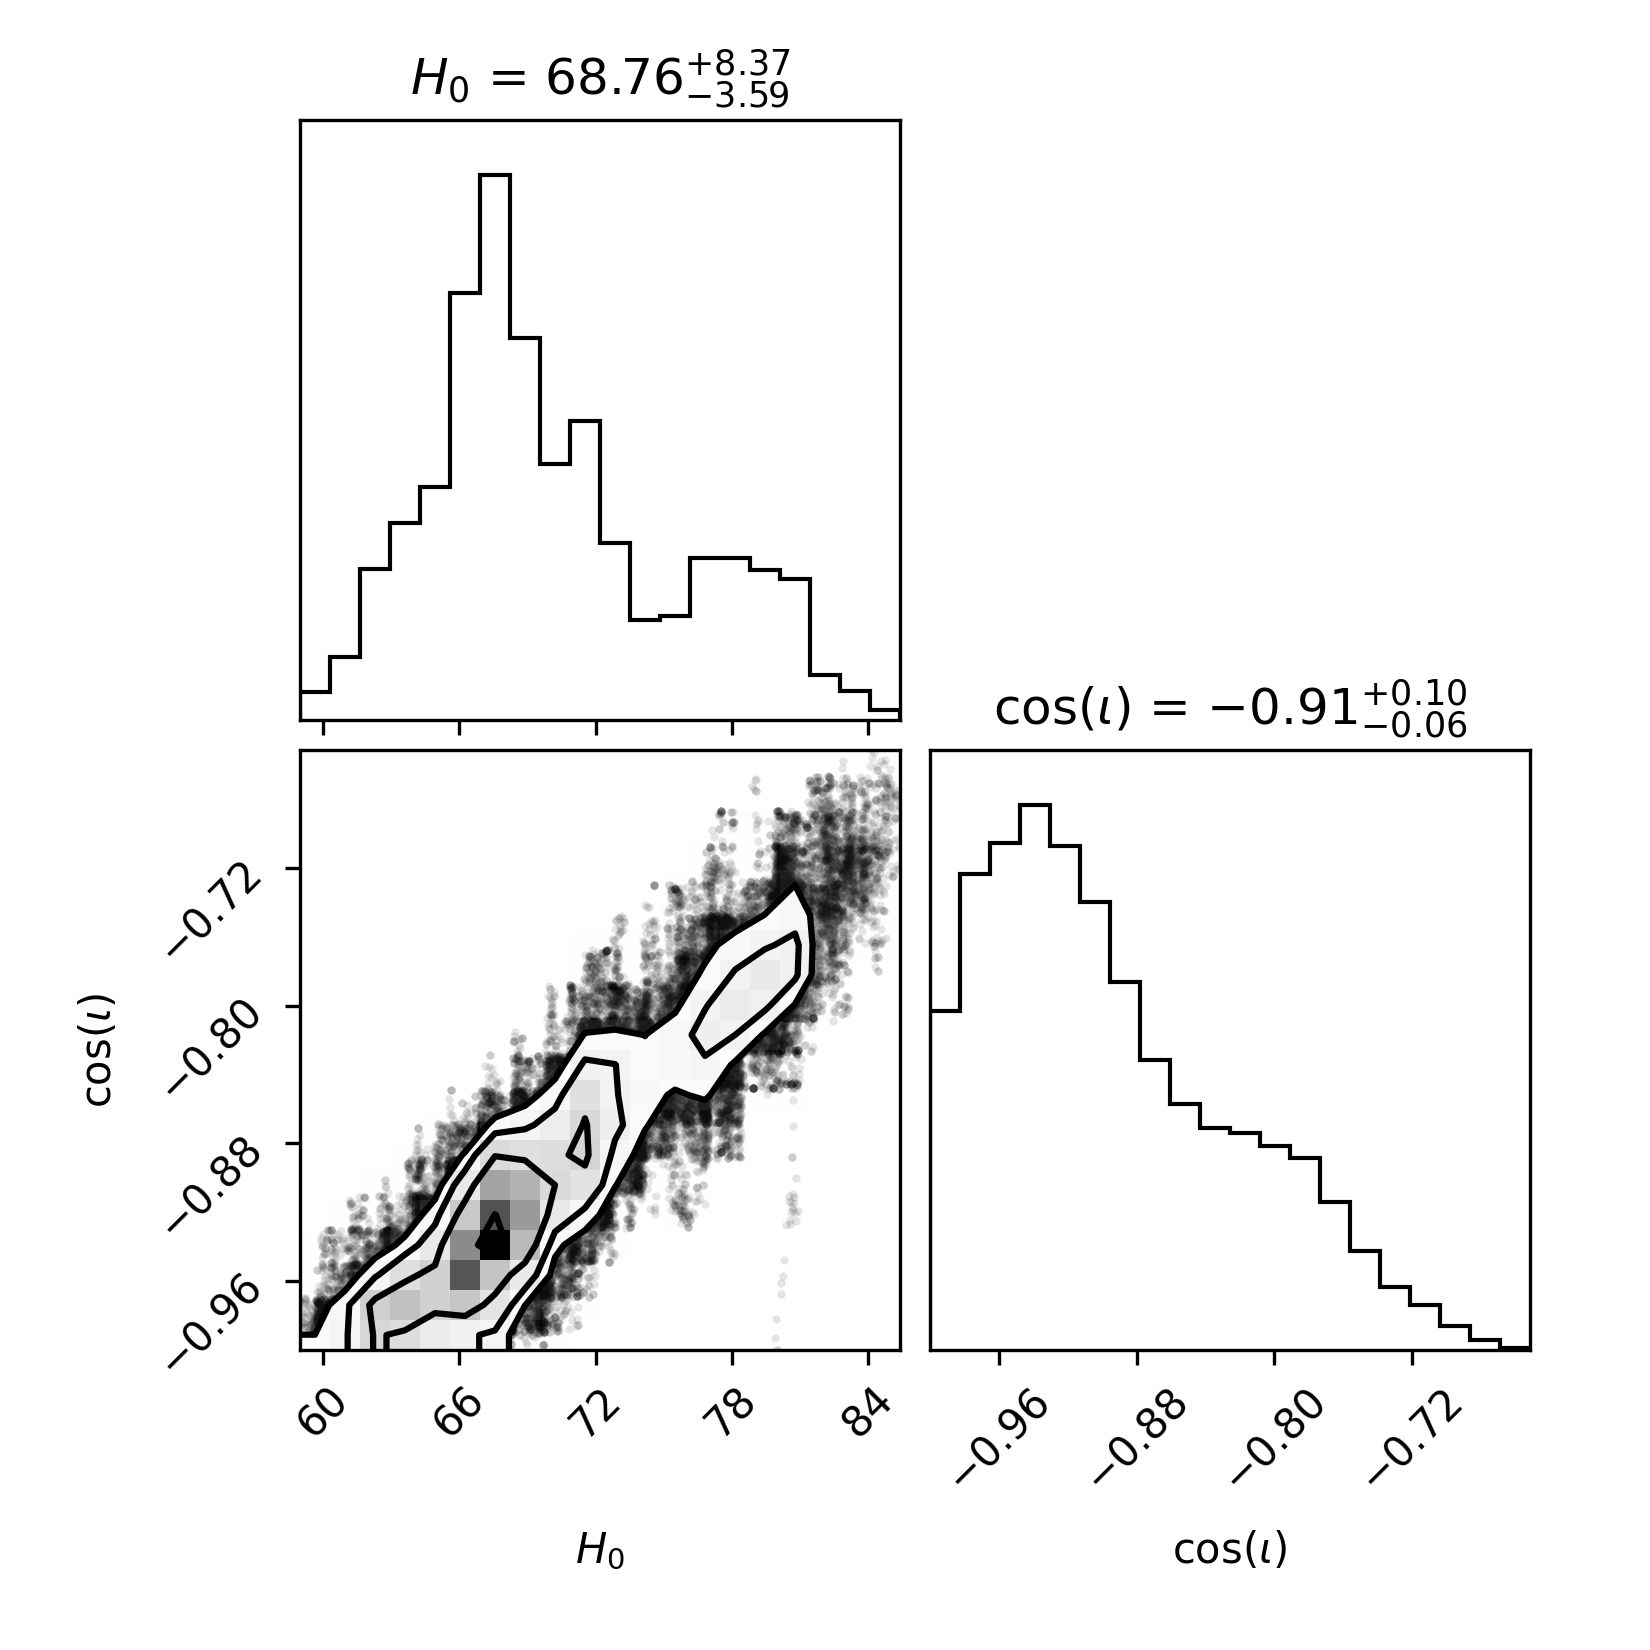
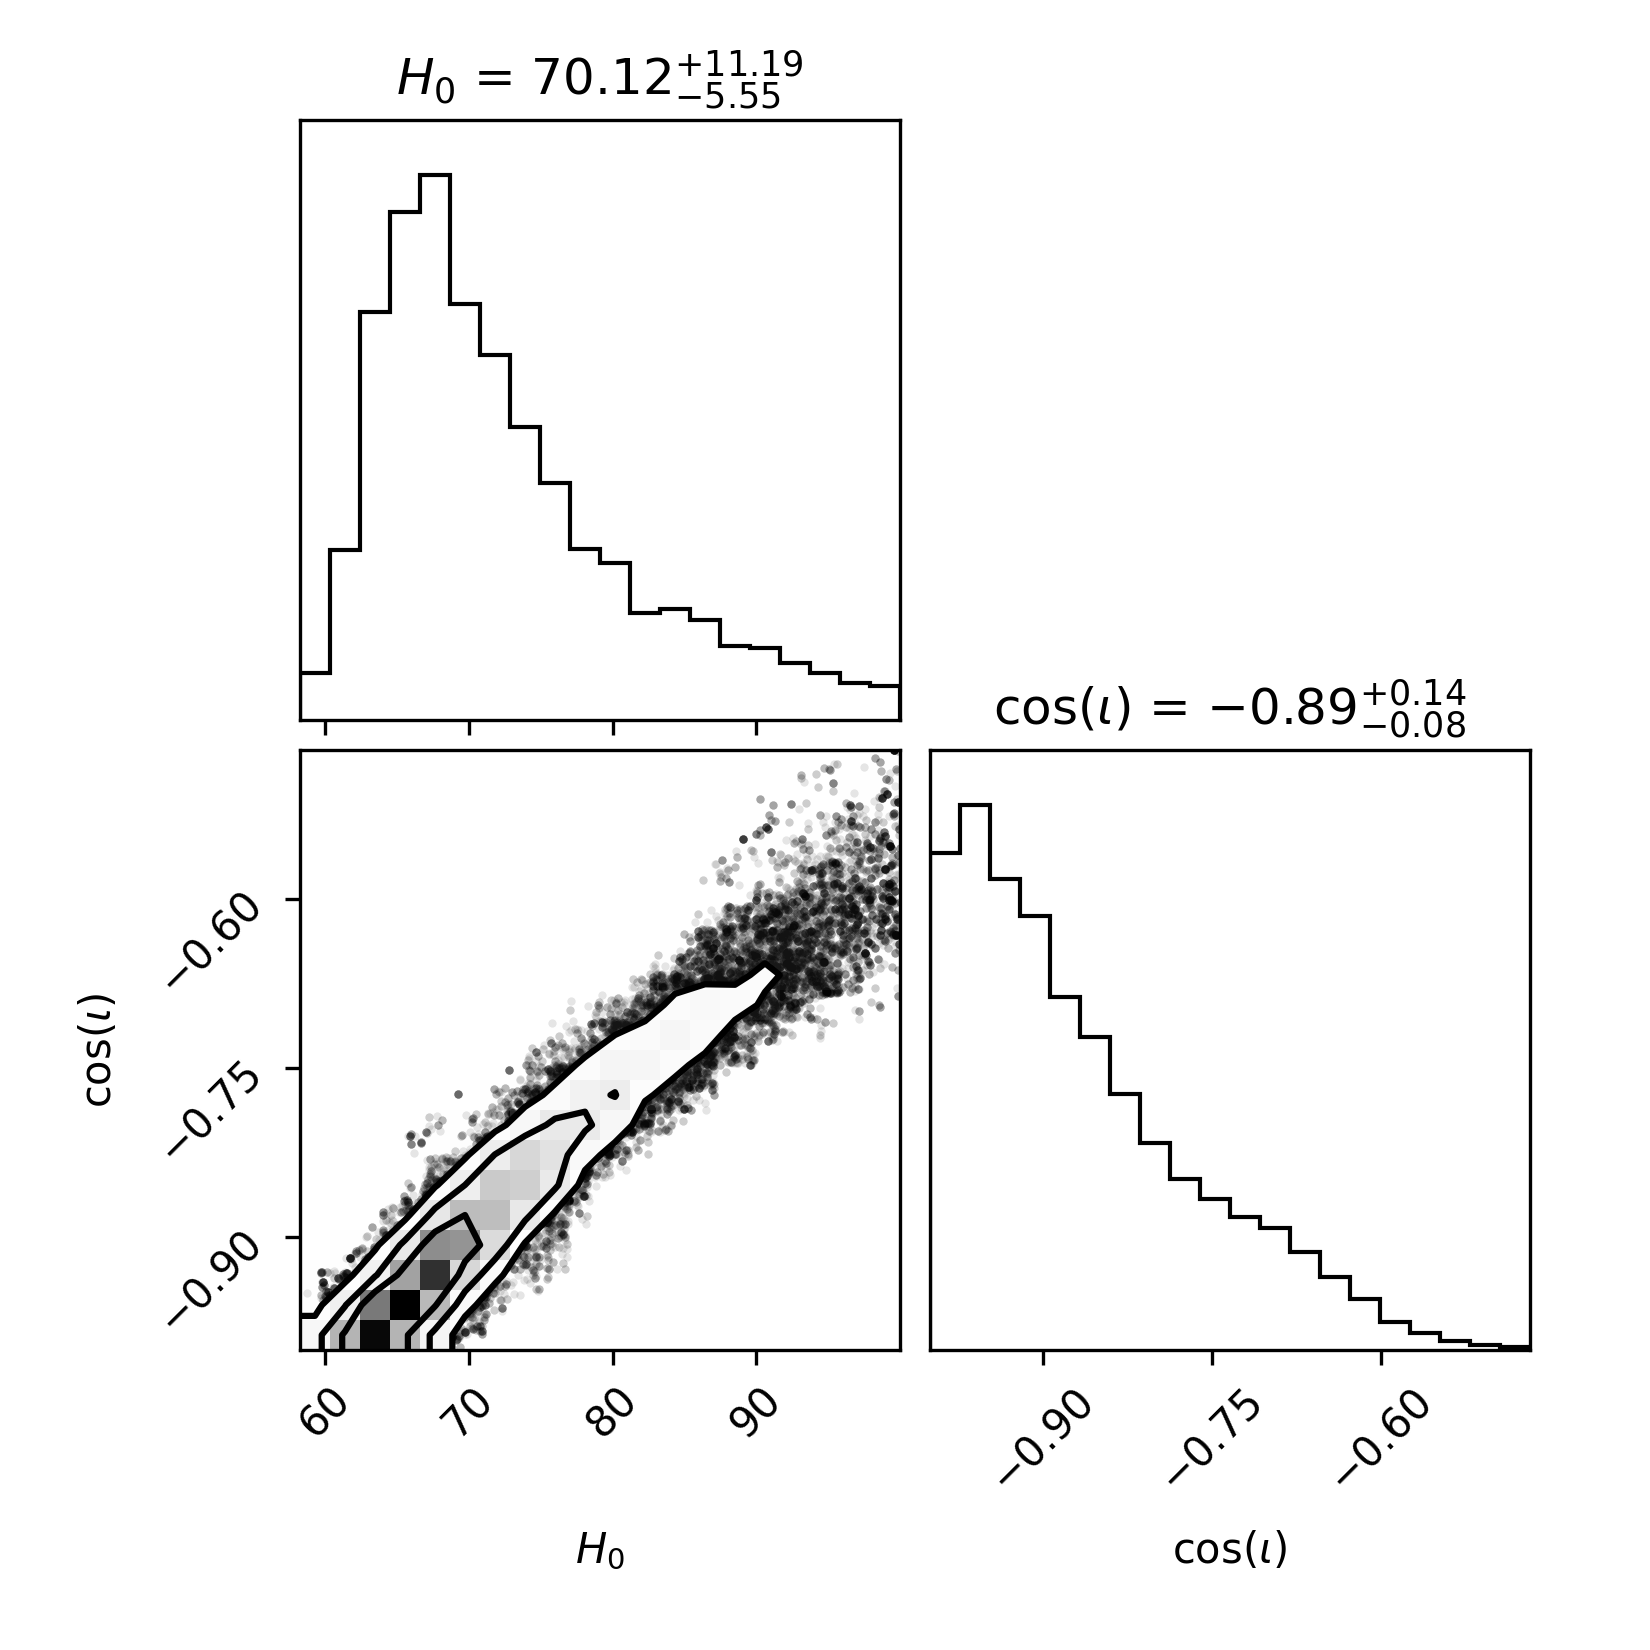
Plot changes

diff --git a/src/GW_code.py b/src/GW_code.py
@@ -25,6 +25,7 @@ planck_mean = 67.4
 planck_sigma = 0.5
 shoes_mean = 73.0
 shoes_sigma = 1.0
+np.random.seed(123456)
 
 
 H_0 = (c * z) / d_l
@@ -90,7 +91,7 @@ def log_prior(theta):
 
 def sampler_2D(
     n_samples=5000,
-    initial=[70, 0.0],
+    initial=[80, -1],
     proposal_width=[1, 0.05],
 ):
     accepted_H_0 = []
@@ -104,7 +105,7 @@ def sampler_2D(
 
         # randomly propose new point
         proposal = np.array([
-            np.random.normal(current[0], proposal_width[0]),  # H0
+            np.random.normal(current[0], proposal_width[0],),  # H0
             np.random.normal(current[1], proposal_width[1])   # cos(iota)
         ])
 
@@ -148,13 +149,13 @@ def sampler_2D(
 # https://research-portal.uu.nl/ws/portalfiles/portal/248573031/PhysRevD.110.083033.pdf proposal width of 20%
 n_samples=100000
 initial=[80, -1]
-proposal_width = [0.1, 0.01]
+proposal_width = [5, 0.1]
 
 chain = sampler_2D(n_samples,initial,proposal_width)[0]
 
 # Remove burn-in
 burnin = int(n_samples/200)
-burnin = 0
+burnin = 100
 samples = chain[burnin:]
 
 H0_samples = samples[:, 0]
@@ -162,7 +163,7 @@ H0_samples = samples[:, 0]
 median = np.median(H0_samples)
 low, high = np.percentile(H0_samples, [16, 84])
 
-plt.hist2d(samples[:, 0], samples[:, 1], bins=50, density=True,cmap='Greys')
+plt.hist2d(samples[:, 0], samples[:, 1], bins=50, density=True,cmap='YlOrRd')
 plt.xlabel(r"$H_0$")
 plt.ylabel(r"cos($\iota$)")
 plt.colorbar(label="Posterior density")
@@ -188,11 +189,11 @@ plt.axvline(planck_mean, color='green', linewidth=1)
 plt.axvspan(
     low,
     high,
-    color='red',
+    color='cyan',
     alpha=0.2,
     label=f'68% Credible Region = [{low:.2f},{high:.2f}]'
 )
-plt.axvline(median, color='red', linewidth=1,label=f"Median = {median:.2f}")
+plt.axvline(median, color='black',linestyle='--', linewidth=1,label=f"Median = {median:.2f}")
 
 plt.legend()
 
